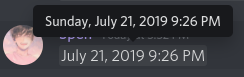
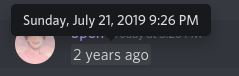
GitBook: [master] 3 pages and 15 assets modified

Changed region(s): [[0.0, 0.0526, 0.9665, 0.8684]]

diff --git a/markdown/timestamps.md b/markdown/timestamps.md
@@ -11,11 +11,11 @@ Although, unix time and epoch time are often used synonymously, they do have dif
 Here are some examples of timestamp markdown:  
 `<t:epoch_seconds>` - &lt;t:1563758772&gt;
 
-![Non-Styled Timestamp](../.gitbook/assets/image%20%283%29.png)
+![Non-Styled Timestamp](../.gitbook/assets/image%20%289%29.png)
 
 `<t:epoch_seconds:style>` - &lt;t:1563758772:R&gt;
 
-![Relative Styled Timestamp](../.gitbook/assets/image%20%284%29.png)
+![Relative Styled Timestamp](../.gitbook/assets/image%20%2810%29.png)
 
 {% hint style="success" %}
 Both regular users and bots can use Timestamp Markdown!

diff --git a/basics/changing-your-username.md b/basics/changing-your-username.md
@@ -1,0 +1,20 @@
+# Changing Your Username
+
+**\#1:** Click the cog icon, which will open user settings.
+
+![](../.gitbook/assets/image%20%287%29.png)
+
+**\#2:** Under the "Username" section, click the "Edit" button on the right.
+
+![](../.gitbook/assets/screenshot-2021-07-21-6.16.22-pm.png)
+
+**\#3:** Input your new username, and current password.
+
+![](../.gitbook/assets/screenshot-2021-07-21-6.19.34-pm.png)
+
+**\#4:** Click "Done", this will save the changes you made!
+
+![](../.gitbook/assets/screenshot-2021-07-21-6.21.08-pm.png)
+
+Enjoy your new username :\)
+

diff --git a/SUMMARY.md b/SUMMARY.md
@@ -2,6 +2,10 @@
 
 * [Initial page](README.md)
 
+## Basics
+
+* [Changing Your Username](basics/changing-your-username.md)
+
 ## Markdown
 
 * [Timestamps](markdown/timestamps.md)
